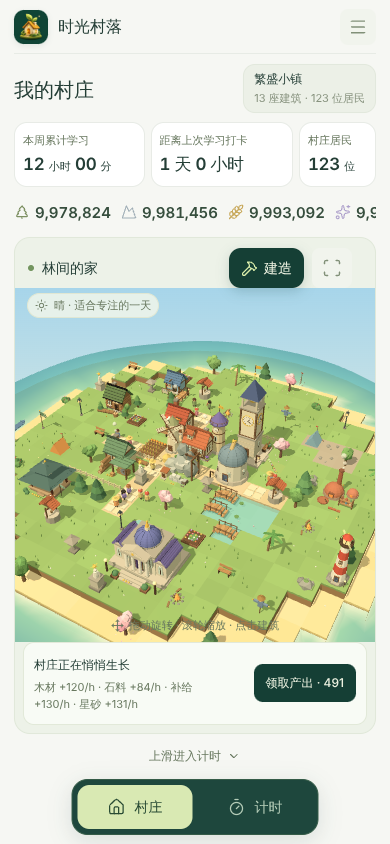
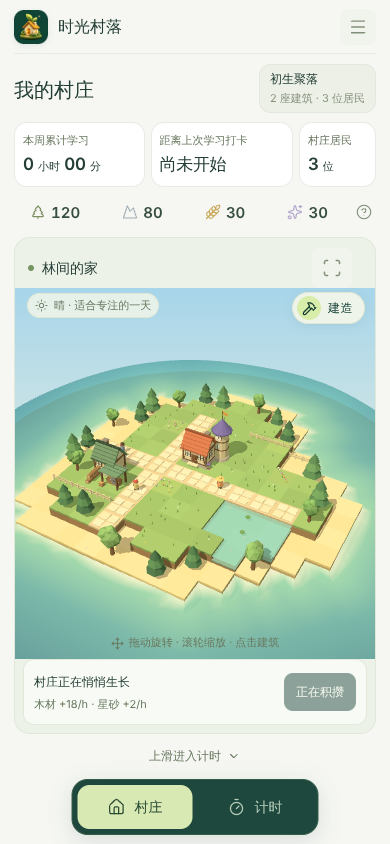
Restyle build entry as a frosted chip inside the scene
Claude-Session: https://claude.ai/code/session_016Rv1tnGkMJ5CNT4tZswNT8

diff --git a/dist/index.html b/dist/index.html
@@ -1,5 +1,5 @@
 <!doctype html>
-<html lang="zh-CN"><head><meta charset="UTF-8"><meta name="viewport" content="width=device-width,initial-scale=1,viewport-fit=cover"><meta name="theme-color" content="#153f35"><meta name="description" content="用专注与休息，养成一座属于你的 3D 学习村庄。"><title>时光村落 · 让专注慢慢生长</title><link rel="icon" type="image/png" sizes="32x32" href="./icons/favicon-32-v1.png"><link rel="icon" type="image/png" sizes="192x192" href="./icons/icon-192-v1.png"><link rel="apple-touch-icon" sizes="180x180" href="./icons/apple-touch-icon-v1.png"><link rel="manifest" href="./manifest.webmanifest"><meta name="apple-mobile-web-app-title" content="时光村落"><meta name="apple-mobile-web-app-capable" content="yes"><meta name="apple-mobile-web-app-status-bar-style" content="default"><link rel="stylesheet" href="./style.css?v=5"><script src="./vendor/lucide.min.js" defer></script><script type="module" src="./app.js?v=4"></script></head>
+<html lang="zh-CN"><head><meta charset="UTF-8"><meta name="viewport" content="width=device-width,initial-scale=1,viewport-fit=cover"><meta name="theme-color" content="#153f35"><meta name="description" content="用专注与休息，养成一座属于你的 3D 学习村庄。"><title>时光村落 · 让专注慢慢生长</title><link rel="icon" type="image/png" sizes="32x32" href="./icons/favicon-32-v1.png"><link rel="icon" type="image/png" sizes="192x192" href="./icons/icon-192-v1.png"><link rel="apple-touch-icon" sizes="180x180" href="./icons/apple-touch-icon-v1.png"><link rel="manifest" href="./manifest.webmanifest"><meta name="apple-mobile-web-app-title" content="时光村落"><meta name="apple-mobile-web-app-capable" content="yes"><meta name="apple-mobile-web-app-status-bar-style" content="default"><link rel="stylesheet" href="./style.css?v=6"><script src="./vendor/lucide.min.js" defer></script><script type="module" src="./app.js?v=4"></script></head>
 <body>
 
 <main><header class="topbar"><a class="compact-brand" href="#village"><img class="app-brand-icon" src="./icons/icon-192-v1.png" width="34" height="34" alt=""><strong>时光村落</strong><span>TIMEGROVE</span></a><div class="topbar-end"><span id="date-label"></span><button id="menu-button" class="icon-button" aria-label="打开村庄菜单" aria-haspopup="dialog"><i data-lucide="menu"></i></button></div></header>
@@ -13,7 +13,7 @@
 <section class="resource-bar" aria-label="资源仓库"><span class="resource-label"><i data-lucide="package"></i>我的仓库</span><div id="resources"></div><button class="quiet-button" id="rules-button" aria-label="查看资源规则"><i data-lucide="circle-help"></i></button></section>
 
 
-<section class="village-panel"><div class="panel-heading"><div><h2><span class="live-dot"></span>林间的家</h2><span>每一份专注，都在让这里变得不同</span></div><div class="panel-tools"><button class="build-entry" id="build-button" disabled title="3D 场景加载中…"><i data-lucide="hammer"></i>建造</button><button class="icon-button" id="reset-camera" title="重置视角" aria-label="重置 3D 视角"><i data-lucide="scan"></i></button></div></div><div id="scene" aria-label="可拖动旋转的 3D 村庄"><div class="scene-loading" id="scene-loading">正在种下第一棵树…</div><div class="scene-tag"><i data-lucide="sun"></i>晴 · 适合专注的一天</div><div class="scene-hint"><i data-lucide="move"></i>拖动旋转 · 滚轮缩放 · 点击建筑</div><div id="building-label" hidden></div></div><div class="harvest-strip"><div><span class="harvest-icon"><i data-lucide="sprout"></i></span><div><strong>村庄正在悄悄生长</strong><p id="production-caption">木材 +18/h · 星砂 +2/h</p></div></div><button id="harvest-button" class="dark-button"><i data-lucide="hand-coins"></i><span id="harvest-label">领取产出</span></button></div></section><button class="screen-jump text-button" data-page="focus">上滑进入计时 <i data-lucide="chevron-down"></i></button></div><section id="page-focus" hidden class="home-screen focus-screen" aria-label="计时"><button class="screen-jump text-button" data-page="village"><i data-lucide="chevron-up"></i>回到村庄</button><section class="focus-panel"><div class="focus-heading"><h2><i data-lucide="timer"></i>留一段时间给自己</h2><span id="focus-status">准备出发</span></div><div class="mode-tabs" role="tablist" aria-label="计时模式"><button id="study-tab" role="tab" aria-selected="true" data-mode="study" class="selected">专注学习</button><button id="rest-tab" role="tab" aria-selected="false" data-mode="rest">好好休息</button></div><div class="timer-ring" id="timer-ring"><div><span id="timer-kicker">下一块砖，从此刻开始</span><strong id="timer-display" aria-label="剩余时间">25:00</strong><span id="timer-note">一小步，也算数。</span></div></div><div class="duration-options" id="durations"></div><label class="topic-field"><i data-lucide="pencil-line"></i><input id="topic" maxlength="80" placeholder="这次想学点什么？" aria-label="本次学习内容"></label><button id="start-button" class="primary-button"><i data-lucide="play"></i><span>开始专注</span></button><div class="timer-actions" hidden id="timer-actions"><button id="pause-button" class="secondary-button">暂停</button><button id="finish-button" class="primary-button">结束并打卡</button></div><div class="focus-reward" id="focus-reward"></div><button id="manual-button" class="text-button"><i data-lucide="notebook-pen"></i>已经学过了？补记一段时间</button><button id="cancel-timer" class="text-button" hidden>放弃本次计时</button></section></section></div></main>
+<section class="village-panel"><div class="panel-heading"><div><h2><span class="live-dot"></span>林间的家</h2><span>每一份专注，都在让这里变得不同</span></div><div class="panel-tools"><button class="icon-button" id="reset-camera" title="重置视角" aria-label="重置 3D 视角"><i data-lucide="scan"></i></button></div></div><div id="scene" aria-label="可拖动旋转的 3D 村庄"><div class="scene-loading" id="scene-loading">正在种下第一棵树…</div><div class="scene-tag"><i data-lucide="sun"></i>晴 · 适合专注的一天</div><button class="build-entry" id="build-button" disabled title="3D 场景加载中…"><span class="build-entry-icon"><i data-lucide="hammer"></i></span>建造</button><div class="scene-hint"><i data-lucide="move"></i>拖动旋转 · 滚轮缩放 · 点击建筑</div><div id="building-label" hidden></div></div><div class="harvest-strip"><div><span class="harvest-icon"><i data-lucide="sprout"></i></span><div><strong>村庄正在悄悄生长</strong><p id="production-caption">木材 +18/h · 星砂 +2/h</p></div></div><button id="harvest-button" class="dark-button"><i data-lucide="hand-coins"></i><span id="harvest-label">领取产出</span></button></div></section><button class="screen-jump text-button" data-page="focus">上滑进入计时 <i data-lucide="chevron-down"></i></button></div><section id="page-focus" hidden class="home-screen focus-screen" aria-label="计时"><button class="screen-jump text-button" data-page="village"><i data-lucide="chevron-up"></i>回到村庄</button><section class="focus-panel"><div class="focus-heading"><h2><i data-lucide="timer"></i>留一段时间给自己</h2><span id="focus-status">准备出发</span></div><div class="mode-tabs" role="tablist" aria-label="计时模式"><button id="study-tab" role="tab" aria-selected="true" data-mode="study" class="selected">专注学习</button><button id="rest-tab" role="tab" aria-selected="false" data-mode="rest">好好休息</button></div><div class="timer-ring" id="timer-ring"><div><span id="timer-kicker">下一块砖，从此刻开始</span><strong id="timer-display" aria-label="剩余时间">25:00</strong><span id="timer-note">一小步，也算数。</span></div></div><div class="duration-options" id="durations"></div><label class="topic-field"><i data-lucide="pencil-line"></i><input id="topic" maxlength="80" placeholder="这次想学点什么？" aria-label="本次学习内容"></label><button id="start-button" class="primary-button"><i data-lucide="play"></i><span>开始专注</span></button><div class="timer-actions" hidden id="timer-actions"><button id="pause-button" class="secondary-button">暂停</button><button id="finish-button" class="primary-button">结束并打卡</button></div><div class="focus-reward" id="focus-reward"></div><button id="manual-button" class="text-button"><i data-lucide="notebook-pen"></i>已经学过了？补记一段时间</button><button id="cancel-timer" class="text-button" hidden>放弃本次计时</button></section></section></div></main>
 <dialog id="manual-dialog"><form id="manual-form"><div class="dialog-heading"><h2>补记一段认真度过的时间</h2><button type="button" data-close="manual-dialog" class="icon-button" aria-label="关闭"><i data-lucide="x"></i></button></div><p class="subtle">补记与计时享有同等奖励，已有记录的时间不可重复。</p><label>学习内容<input name="topic" maxlength="80" placeholder="例如：复变函数 · 留数定理" required></label><label>学习时长（分钟）<input name="minutes" type="number" min="1" max="240" value="25" required></label><label>结束时间<input name="end" type="datetime-local" required></label><p id="manual-error" class="form-error" role="alert"></p><button type="submit" class="primary-button">保存打卡 · 领取奖励</button></form></dialog>
 <dialog id="settings-dialog"><div class="dialog-heading"><h2>让生长有迹可循</h2><button data-close="settings-dialog" class="icon-button" aria-label="关闭"><i data-lucide="x"></i></button></div><h3>村庄生活指南</h3><div class="rules-list"><p><strong>专注学习</strong><span>每分钟获得 2 木材、1 石料、0.4 星砂。累计每学习 60 分钟增加 1 位居民。</span></p><p><strong>适当休息</strong><span>每学习 5 分钟解锁 1 分钟可奖励休息。每分钟休息获得 2 补给、0.2 星砂，单次最多 15 分钟。</span></p><p><strong>建筑产出</strong><span>关闭网页也会按时间产出，最多储存 24 小时。领取后可继续储存；升级立即提升产速。</span></p><p><strong>星砂寻宝</strong><span>每次 30 星砂，无付费入口。连续 19 次未出史诗或传说，第 20 次至少史诗；出货后重新计数。</span></p><p><strong>计时与周统计</strong><span>计时刷新后保留，到点停止累计，需要手动打卡领奖。暂停时间不计入学习；本周按设备本地时区从周一 00:00 开始。</span></p></div><h3>自由建造（新）</h3><div class="rules-list"><p><strong>自由摆放</strong><span>点击「建造」进入建造模式，建筑可放在岛上任意合适的空地，也可随时免费移动与旋转。新建筑需要足够的居民才能建造。</span></p><p><strong>地貌工具</strong><span>填海造地消耗石料、木材与补给（岛越大越贵）；改变地貌：花甸 2 补给、岩地 2 石料、石径 3 石料；抬升每级消耗石料；降低、草地、沙滩、池塘与还原为海免费。</span></p><p><strong>装饰</strong><span>装饰按种类消耗资源，拆除不返还资源。收藏品可摆在奇物展台上展示。</span></p></div><h3>保存你的村庄</h3><p class="subtle">进度只保存在当前浏览器。清理网站数据会丢失存档；换设备时请导出后导入。GitHub 不会保存你的学习记录。</p><p class="subtle">此版本的存档格式已升级，旧版本无法再打开它；首次升级时会自动在本机保留一份旧存档备份（timegrove-save-v1-backup-before-v2）。</p><div class="backup-buttons"><button id="export-save" class="dark-button"><i data-lucide="download"></i>导出存档</button><button id="import-save" class="secondary-button"><i data-lucide="upload"></i>导入存档</button><input id="import-file" type="file" accept="application/json,.json" hidden></div></dialog>
 <dialog id="item-dialog"><div class="dialog-heading"><h2 id="item-name"></h2><button data-close="item-dialog" class="icon-button" aria-label="关闭"><i data-lucide="x"></i></button></div><div id="item-viewer" class="item-viewer"></div><p id="item-meta" class="item-meta"></p><p id="item-text" class="subtle"></p></dialog><dialog id="confirm-dialog"><h2 id="confirm-title"></h2><p id="confirm-text"></p><div class="backup-buttons"><button id="confirm-no" class="secondary-button">取消</button><button id="confirm-yes" class="primary-button">确认</button></div></dialog>

diff --git a/dist/style.css b/dist/style.css
@@ -59,3 +59,7 @@ body.build-mode #toast{left:50%;bottom:auto;top:calc(88px + env(safe-area-inset-
 @media(max-width:480px){.bh-card{flex-basis:138px}.bh-tabs button[data-tab]{font-size:14px}.build-entry{padding:0 12px}}
 @media(max-height:560px){.bh-card{flex-basis:128px;padding:8px 9px}.bh-card p{display:none}.bh-hint{display:none}}
 @media(prefers-reduced-motion:reduce){.bh-fold svg{transition:none}}
+
+/* build entry: frosted chip inside the scene, mirroring the weather tag */
+.build-entry{position:absolute;top:6px;right:16px;z-index:2;display:inline-flex;align-items:center;gap:7px;min-height:36px;padding:0 13px 0 5px;border:1px solid #e0e7d3;border-radius:20px;background:#f5f7eae6;-webkit-backdrop-filter:blur(8px);backdrop-filter:blur(8px);color:var(--forest);font-size:13px;font-weight:600;letter-spacing:.5px;box-shadow:0 2px 10px #153f3512}.build-entry::after{content:'';position:absolute;inset:-6px}.build-entry-icon{display:grid;place-items:center;width:26px;height:26px;border-radius:50%;background:var(--lime);color:var(--forest)}.build-entry .build-entry-icon svg{width:15px;height:15px;color:var(--forest);stroke-width:2}.build-entry:hover:not(:disabled){background:#fbfcf6;border-color:#cddcb4}.build-entry:disabled{opacity:.5}body.build-mode .build-entry{display:none!important}
+@media(max-width:760px){.build-entry{top:4px;right:10px;min-height:32px;font-size:12px;padding:0 11px 0 4px}.build-entry-icon{width:24px;height:24px}}
